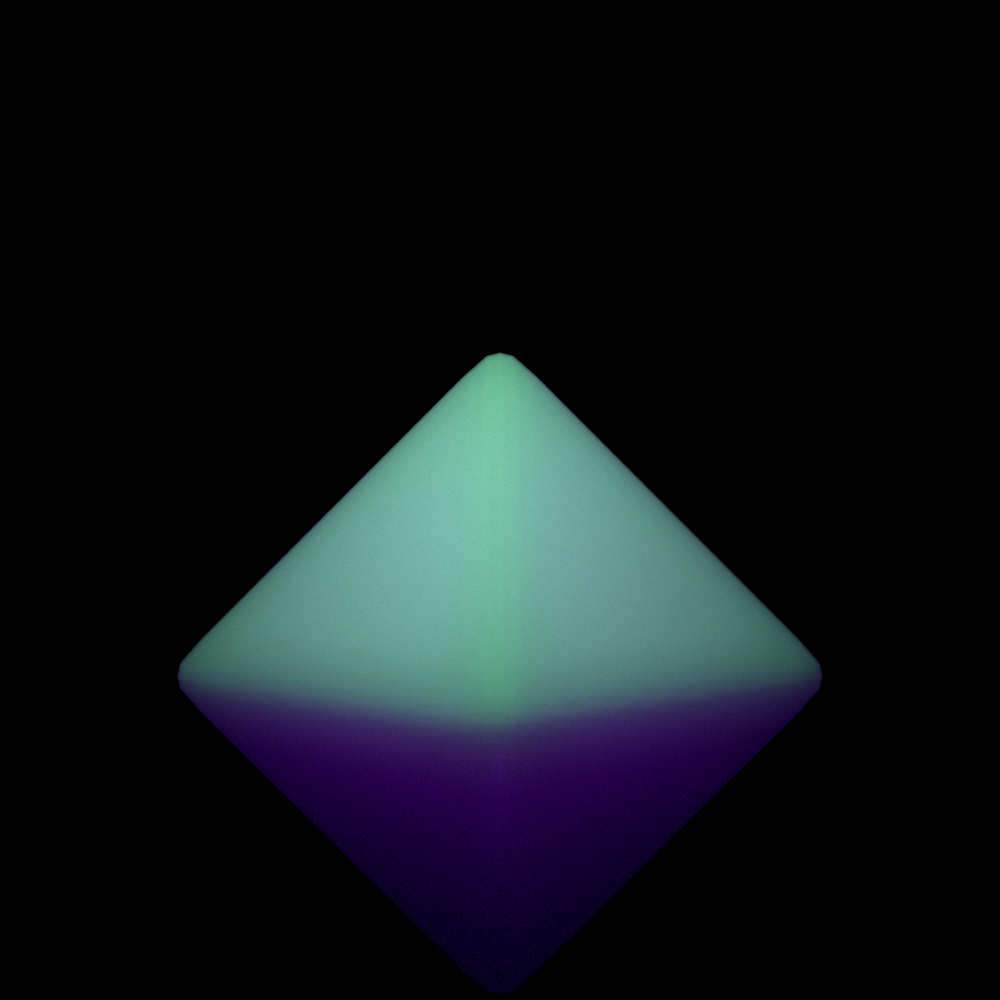
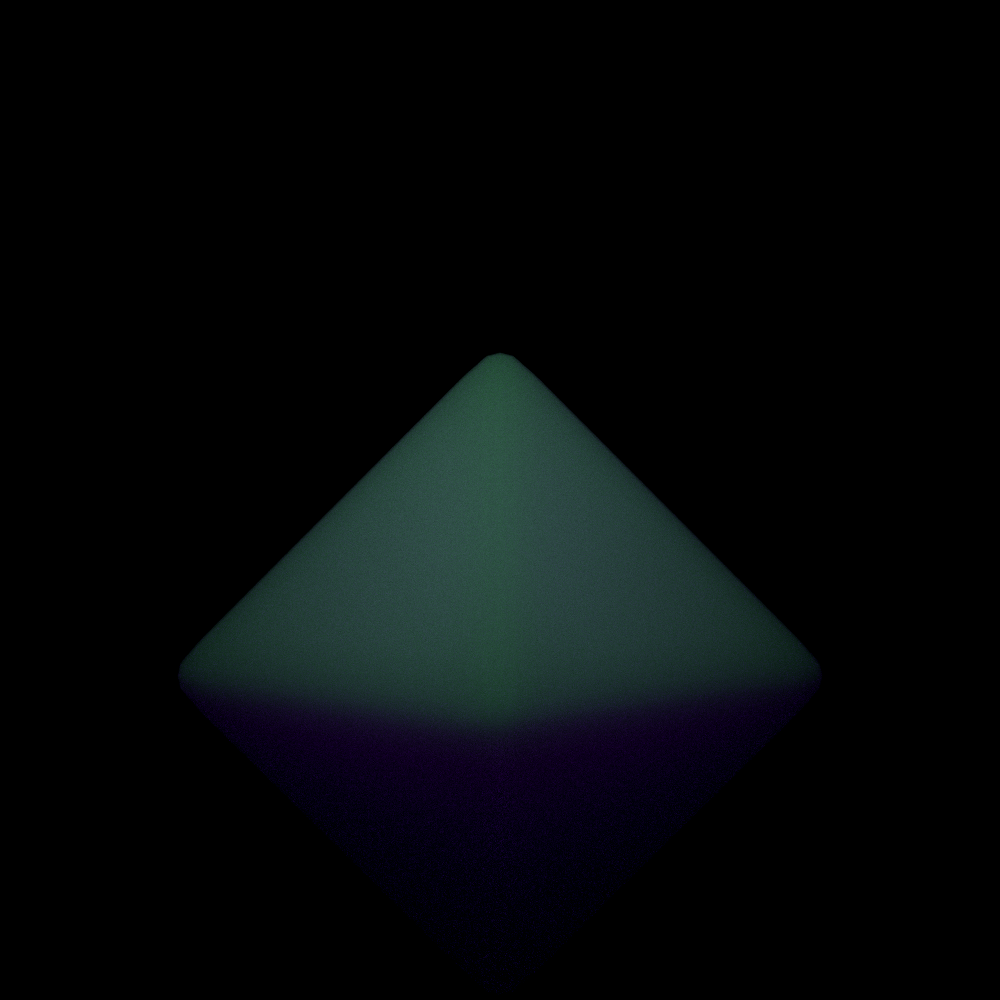
remove surface area && add support for point/direction lights

Changed region(s): [[0.155, 0.341, 0.837, 0.992]]

diff --git a/src/main.py b/src/main.py
@@ -93,16 +93,6 @@ res = make_int2(1000, 1000)
 
 
 @numba.jit
-def surface_area_kernel(triangle_array, vertex_array):
-    acc = 0.0
-    for i in range(0, len(triangle_array), 3):
-        i0, i1, i2 = triangle_array[i:i + 3]
-        p0, p1, p2 = vertex_array[i0], vertex_array[i1], vertex_array[i2]
-        acc += 0.5 * np.linalg.norm(np.cross(p1 - p0, p2 - p0))
-    return acc
-
-
-@numba.jit
 def normal_array_kernel(triangle_array, normal_index_array, normal_vectors, vertex_num):
     normal_array = np.empty((vertex_num, 3), dtype=np.float32)
     for normal_index, vertex_index in zip(normal_index_array, triangle_array):
@@ -118,9 +108,6 @@ def ccw_check_kernel(triangle_array, vertex_array, normal_array):
         n = np.cross(p1 - p0, p2 - p0)
         if np.dot(n, normal_array[i0]) < 0:
             triangle_array[i], triangle_array[i + 1] = i1, i0
-
-
-surface_area = 0.0
 
 
 def parse_scene(filename: str):
@@ -154,8 +141,6 @@ def parse_scene(filename: str):
         # ccw_check_kernel(triangle_array, vertex_array, normal_array)
         vertex_arrays.append(vertex_array)
         normal_arrays.append(normal_array)
-        global surface_area
-        surface_area = surface_area_kernel(triangle_array, vertex_array)
         triangle_arrays.append(triangle_array)
         # parse and upload light information
         # add surface light data to array lists
@@ -353,6 +338,25 @@ def fresnel_schlick(c):
 
 
 @luisa.func
+def collect_direct_illumination(p, n):
+    acc = make_float3(0.)
+    for i in range(point_light_count):
+        point_light = point_light_buffer.read(i)
+        light_direction = normalize(point_light.position - p)
+        ray = make_ray(p, light_direction, 1e-2, length(point_light.position - p))
+        if not accel.trace_any(ray):
+            cos_wi = max(dot(n, light_direction), 0.)
+            acc += cos_wi * point_light.emission * fresnel_schlick(cos_wi)
+    for i in range(direction_light_count):
+        direction_light = direction_light_buffer.read(i)
+        ray = make_ray(p, direction_light.direction, 1e-2, 1e10)
+        if not accel.trace_any(ray):
+            cos_wi = max(dot(n, light_direction), 0.)
+            acc += cos_wi * direction_light.emission * fresnel_schlick(cos_wi)
+    return acc
+
+
+@luisa.func
 def path_tracing_kernel(canvas):
     acc = make_float3(0.0)
     for idx in range(spp):
@@ -433,7 +437,8 @@ def path_tracing_kernel(canvas):
                             pdf_disk(length(cross(prev_onb.tangent, offset))) * abs(
                         dot(prev_onb.tangent, n)) + pdf_disk(length(cross(prev_onb.binormal, offset))) * abs(
                         dot(prev_onb.binormal, n))) * 0.25
-                amp *= surface_area * albedo * bssrdf / (pdf_bssrdf * pdf_xy * math.pi)
+                amp *= albedo * bssrdf / (pdf_bssrdf * pdf_xy * math.pi)
+                contrib += amp * collect_direct_illumination(p, n)
                 ray = make_ray(p, onb.to_world(cosine_sample_hemisphere(make_float2(sampler.next(), sampler.next()))),
                                1e-3, 1e10)
                 if surface_light_count != 0:
@@ -501,7 +506,7 @@ def main():
     path_tracing_kernel(canvas, dispatch_size=(res.x, res.y))
     buffer = np.array([[c.x, c.y, c.z] for c in canvas.to_list()], dtype=np.float32)
     postfix = sys.argv[1].split('/')[-1].split('\\')[-1].split('.')[0]
-    plt.imsave(f"result-teaser.png", buffer.reshape(res.x, res.y, -1)[::-1, ::-1])
+    plt.imsave(f"result-{postfix}.png", buffer.reshape(res.x, res.y, -1)[::-1, ::-1])
 
 
 if __name__ == "__main__":
